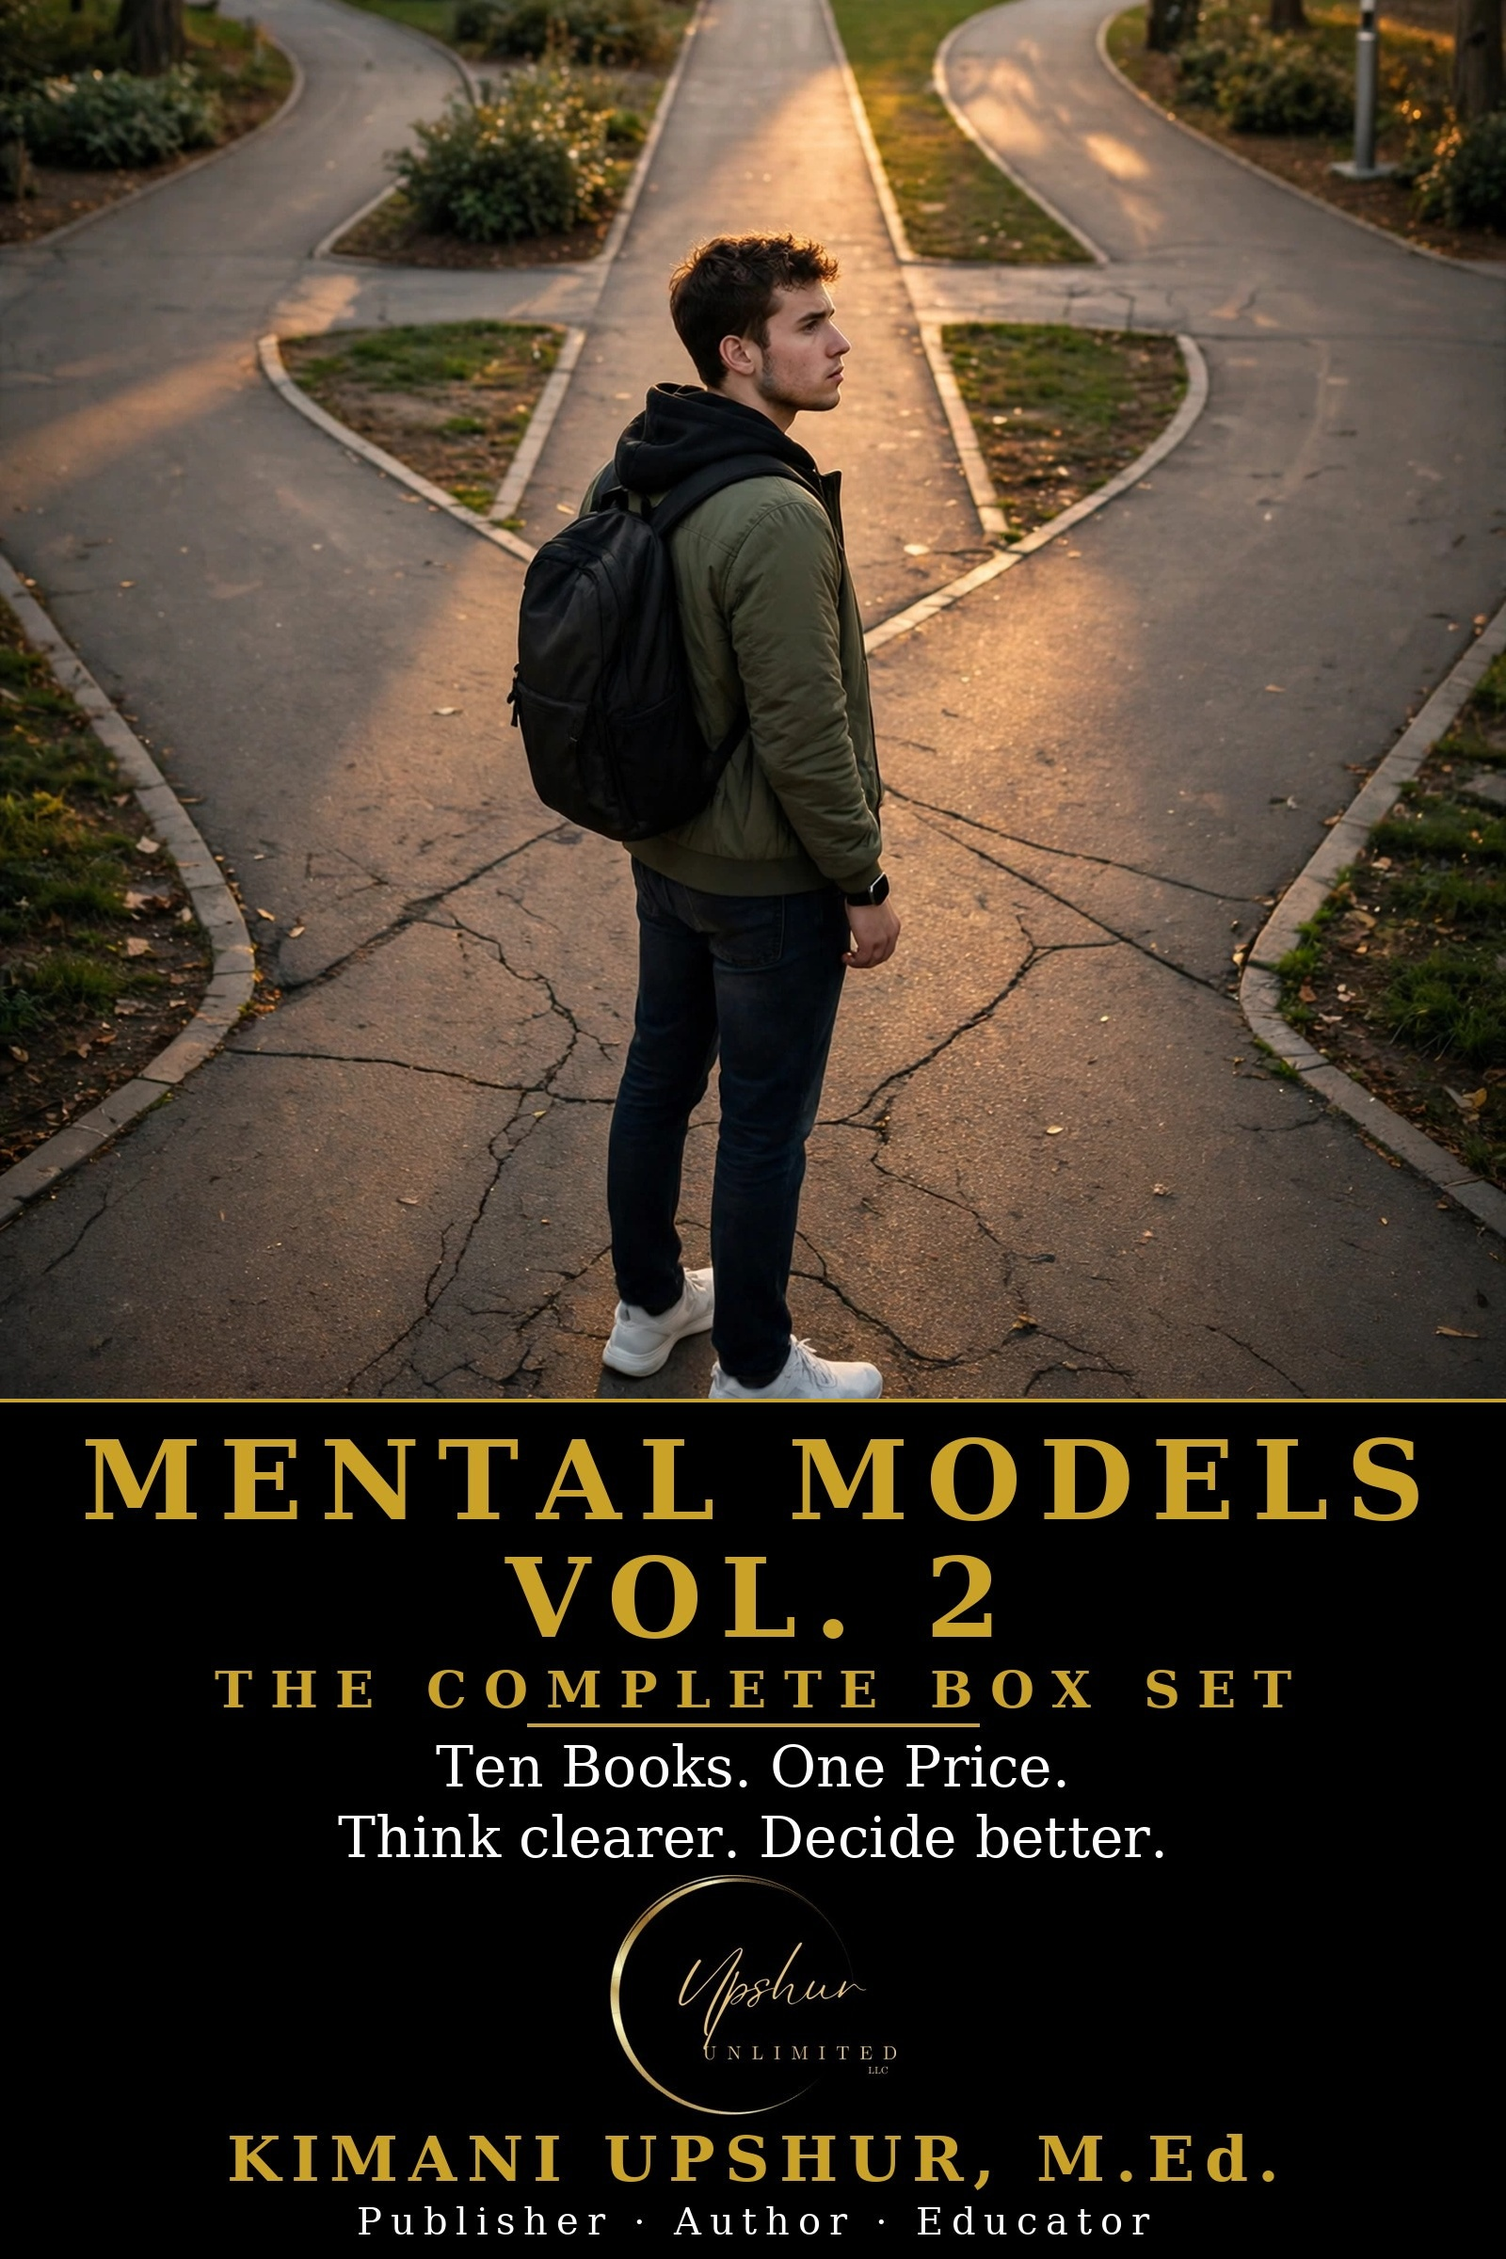
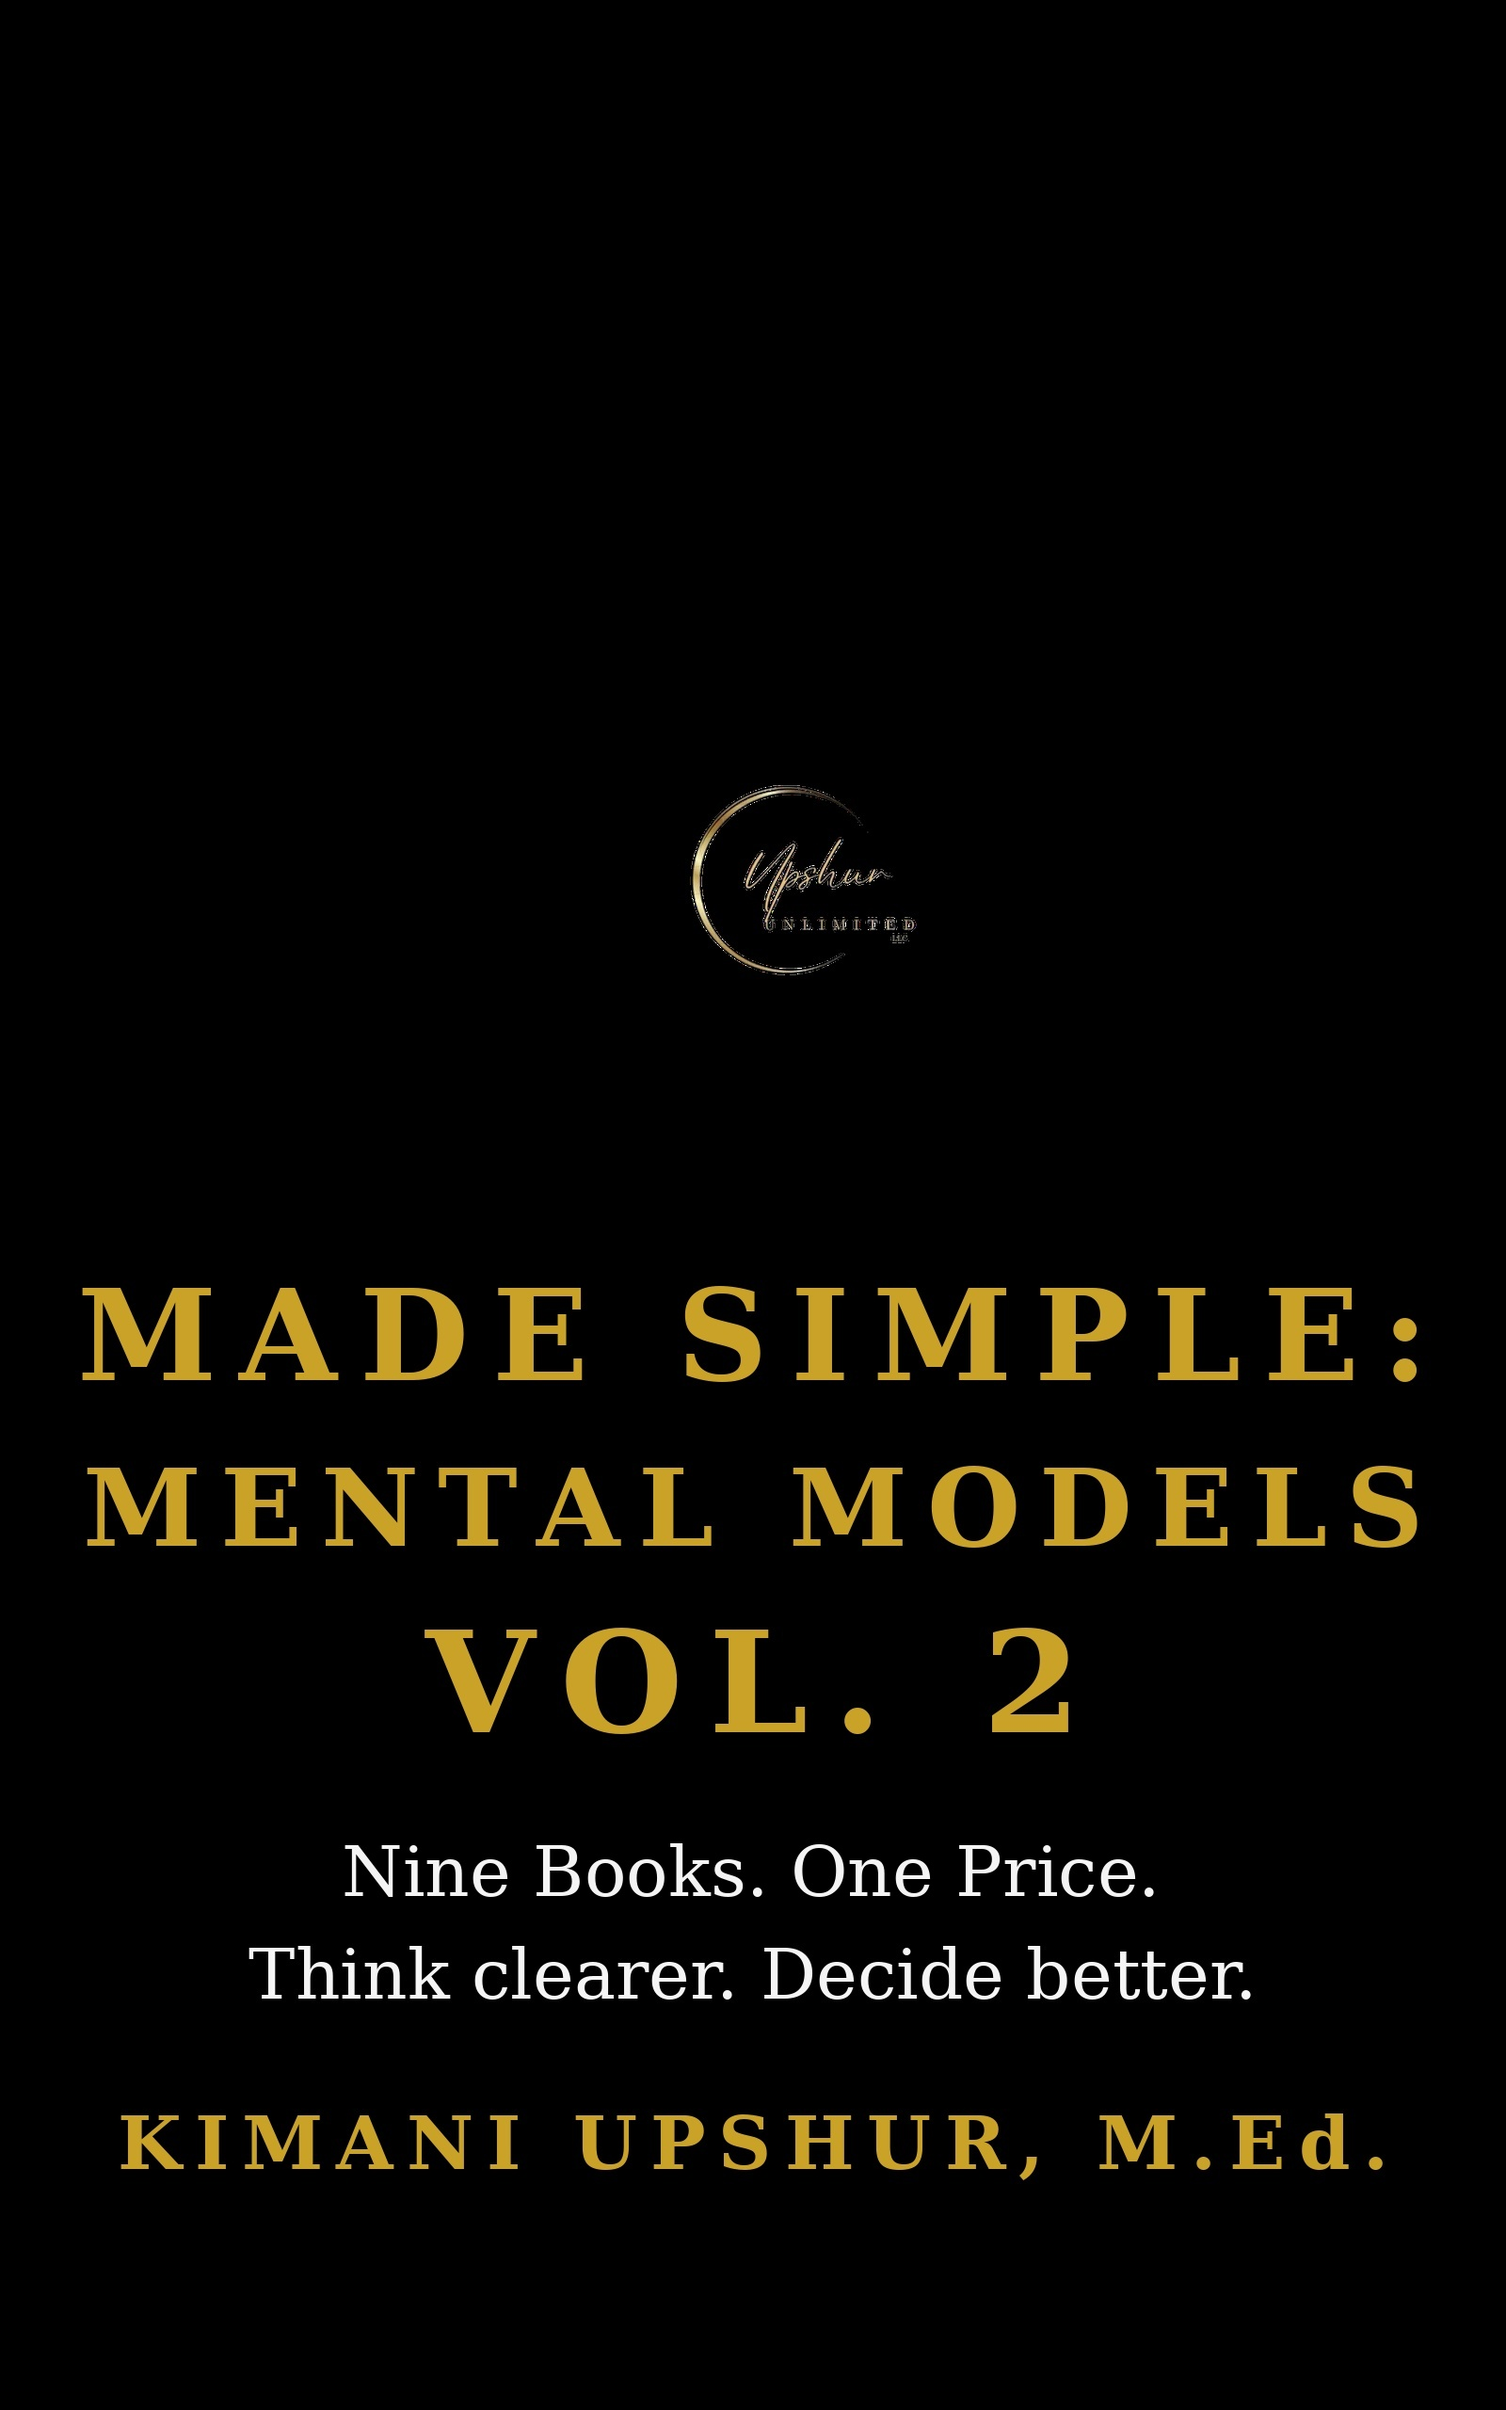
Batch 228: Mental Models Vol. 2 nine-book description + cover correction

diff --git a/books/mental-models-vol-2-the-complete-box-set/index.html b/books/mental-models-vol-2-the-complete-box-set/index.html
@@ -5,21 +5,21 @@
 <meta name="viewport" content="width=device-width, initial-scale=1">
 <link rel="icon" href="/favicon.png" type="image/png">
 <title>Made Simple: Mental Models Vol. 2 — The Complete Box Set by Kimani Upshur, M.Ed.</title>
-<meta name="description" content="Made Simple: Mental Models Vol. 2 — The Complete Box Set gathers ten complete Made Simple books of practical thinking tools in one volume.">
+<meta name="description" content="Made Simple: Mental Models Vol. 2 — The Complete Box Set gathers nine complete Made Simple books of practical thinking tools in one volume.">
 <link rel="canonical" href="https://upshurunlimitedllc.com/books/mental-models-vol-2-the-complete-box-set/">
 <meta property="og:type" content="book">
 <meta property="og:title" content="Made Simple: Mental Models Vol. 2 — The Complete Box Set by Kimani Upshur, M.Ed. | Upshur Unlimited, LLC">
 <meta property="og:image" content="https://upshurunlimitedllc.com/books/mental-models-vol-2-the-complete-box-set/cover.jpg">
-<meta property="og:description" content="Made Simple: Mental Models Vol. 2 — The Complete Box Set gathers ten complete Made Simple books of practical thinking tools in one volume.">
+<meta property="og:description" content="Made Simple: Mental Models Vol. 2 — The Complete Box Set gathers nine complete Made Simple books of practical thinking tools in one volume.">
 <meta property="og:url" content="https://upshurunlimitedllc.com/books/mental-models-vol-2-the-complete-box-set/">
 <meta property="og:site_name" content="Kimani Upshur, M.Ed. | Upshur Unlimited, LLC">
 <meta name="twitter:card" content="summary">
 <meta name="twitter:title" content="Made Simple: Mental Models Vol. 2 — The Complete Box Set by Kimani Upshur, M.Ed. | Upshur Unlimited, LLC">
-<meta name="twitter:description" content="Made Simple: Mental Models Vol. 2 — The Complete Box Set gathers ten complete Made Simple books of practical thinking tools in one volume.">
+<meta name="twitter:description" content="Made Simple: Mental Models Vol. 2 — The Complete Box Set gathers nine complete Made Simple books of practical thinking tools in one volume.">
 <link rel="stylesheet" href="/assets/design.css">
 <link rel="stylesheet" href="/assets/storefront.css">
 <script type="application/ld+json">
-{"@context": "https://schema.org", "@type": "Book", "name": "Made Simple: Mental Models Vol. 2 \u2014 The Complete Box Set", "author": {"@type": "Person", "name": "Kimani Upshur, M.Ed.", "url": "https://upshurunlimitedllc.com/about.html"}, "publisher": {"@type": "Organization", "name": "Upshur Unlimited, LLC"}, "inLanguage": "en", "bookFormat": "https://schema.org/EBook", "description": "Made Simple: Mental Models Vol. 2 \u2014 The Complete Box Set gathers ten complete Made Simple books of practical thinking tools in one volume. Two-Way Door Decisions teaches how to tell reversible from irreversible choices and decide at the right speed. Red Teaming shows how to challenge your own plans, find blind spots, and stress-test decisions before reality does. Decision Matrix explains how to weigh options, score tradeoffs, and make clear choices when everything looks equal, and the OODA Loop how to observe, orient, decide, and act faster than changing conditions. Pre-Mortem imagines failure before it happens to spot hidden risks and make better plans. Constraints examines how limits shape systems, decisions, and outcomes, and Emergence how complex patterns arise from simple interactions. Feedback Loops follows how systems think, self-regulate, and surprise us, and Bottlenecks exposes the hidden constraints that limit performance in systems, organizations, and decisions. Systems Thinking closes the set with seeing connections rather than isolated parts. Each book follows the Made Simple pattern \u2014 a hook, an introduction, a framework, chapters that apply the model to business, personal, and career decisions, and a conclusion \u2014 stripping the jargon, finding the mechanism, and giving the reader something to act on this week. Written from a Christian worldview \u2014 Scripture first.", "url": "https://upshurunlimitedllc.com/books/mental-models-vol-2-the-complete-box-set/"}
+{"@context": "https://schema.org", "@type": "Book", "name": "Made Simple: Mental Models Vol. 2 \u2014 The Complete Box Set", "author": {"@type": "Person", "name": "Kimani Upshur, M.Ed.", "url": "https://upshurunlimitedllc.com/about.html"}, "publisher": {"@type": "Organization", "name": "Upshur Unlimited, LLC"}, "inLanguage": "en", "bookFormat": "https://schema.org/EBook", "description": "Made Simple: Mental Models Vol. 2 \u2014 The Complete Box Set gathers nine complete Made Simple books of practical thinking tools in one volume. Two-Way Door Decisions teaches how to tell reversible from irreversible choices and decide at the right speed. Red Teaming shows how to challenge your own plans, find blind spots, and stress-test decisions before reality does. Decision Matrix explains how to weigh options, score tradeoffs, and make clear choices when everything looks equal, and the OODA Loop how to observe, orient, decide, and act faster than changing conditions. Pre-Mortem imagines failure before it happens to spot hidden risks and make better plans. Constraints examines how limits shape systems, decisions, and outcomes, and Emergence how complex patterns arise from simple interactions. Bottlenecks exposes the hidden constraints that limit performance in systems, organizations, and decisions. Systems Thinking closes the set with seeing connections rather than isolated parts. Each book follows the Made Simple pattern \u2014 a hook, an introduction, a framework, chapters that apply the model to business, personal, and career decisions, and a conclusion \u2014 stripping the jargon, finding the mechanism, and giving the reader something to act on this week. Written from a Christian worldview \u2014 Scripture first.", "url": "https://upshurunlimitedllc.com/books/mental-models-vol-2-the-complete-box-set/"}
 </script>
 <script type="application/ld+json">
 {"@context": "https://schema.org", "@type": "BreadcrumbList", "itemListElement": [{"@type": "ListItem", "position": 1, "name": "Home", "item": "https://upshurunlimitedllc.com/"}, {"@type": "ListItem", "position": 2, "name": "Books", "item": "https://upshurunlimitedllc.com/books/"}, {"@type": "ListItem", "position": 3, "name": "Made Simple: Mental Models Vol. 2 — The Complete Box Set", "item": "https://upshurunlimitedllc.com/books/mental-models-vol-2-the-complete-box-set/"}]}
@@ -41,7 +41,7 @@
 <p class="bread"><a href="/">Home</a> / <a href="/books/">Books</a></p>
 <div class="uu-book-layout"><div class="uu-book-cover"><figure class="cover" style="margin:6px 0 18px"><img src="cover.jpg" onerror="this.style.display='none'" alt="Made Simple: Mental Models Vol. 2 — The Complete Box Set book cover by Kimani Upshur, M.Ed." width="1600" height="2400" loading="lazy" style="max-width:280px;width:100%;height:auto;border-radius:10px;border:2px solid #D4AF63"></figure></div><div class="uu-book-meta"><h1>Made Simple: Mental Models Vol. 2 — The Complete Box Set</h1>
 <p class="byline">by Kimani Upshur, M.Ed.</p>
-<p class="desc">Made Simple: Mental Models Vol. 2 — The Complete Box Set gathers ten complete Made Simple books of practical thinking tools in one volume. Two-Way Door Decisions teaches how to tell reversible from irreversible choices and decide at the right speed. Red Teaming shows how to challenge your own plans, find blind spots, and stress-test decisions before reality does. Decision Matrix explains how to weigh options, score tradeoffs, and make clear choices when everything looks equal, and the OODA Loop how to observe, orient, decide, and act faster than changing conditions. Pre-Mortem imagines failure before it happens to spot hidden risks and make better plans. Constraints examines how limits shape systems, decisions, and outcomes, and Emergence how complex patterns arise from simple interactions. Feedback Loops follows how systems think, self-regulate, and surprise us, and Bottlenecks exposes the hidden constraints that limit performance in systems, organizations, and decisions. Systems Thinking closes the set with seeing connections rather than isolated parts. Each book follows the Made Simple pattern — a hook, an introduction, a framework, chapters that apply the model to business, personal, and career decisions, and a conclusion — stripping the jargon, finding the mechanism, and giving the reader something to act on this week. Written from a Christian worldview — Scripture first.</p>
+<p class="desc">Made Simple: Mental Models Vol. 2 — The Complete Box Set gathers nine complete Made Simple books of practical thinking tools in one volume. Two-Way Door Decisions teaches how to tell reversible from irreversible choices and decide at the right speed. Red Teaming shows how to challenge your own plans, find blind spots, and stress-test decisions before reality does. Decision Matrix explains how to weigh options, score tradeoffs, and make clear choices when everything looks equal, and the OODA Loop how to observe, orient, decide, and act faster than changing conditions. Pre-Mortem imagines failure before it happens to spot hidden risks and make better plans. Constraints examines how limits shape systems, decisions, and outcomes, and Emergence how complex patterns arise from simple interactions. Bottlenecks exposes the hidden constraints that limit performance in systems, organizations, and decisions. Systems Thinking closes the set with seeing connections rather than isolated parts. Each book follows the Made Simple pattern — a hook, an introduction, a framework, chapters that apply the model to business, personal, and career decisions, and a conclusion — stripping the jargon, finding the mechanism, and giving the reader something to act on this week. Written from a Christian worldview — Scripture first.</p>
 <div class="uu-buybox"><h2>Get This Book</h2><p class="uu-note">The complete box set — also check your favorite retailer.</p><p class="uu-note">Ebook $39.99</p><div class="uu-buybtns"><a class="uu-buybtn primary" href="https://payhip.com/b/UWr40" rel="nofollow noopener">Buy on Payhip</a><a class="uu-buybtn" href="https://books.apple.com/us/book/made-simple-mental-models-vol-2-the-complete-box-set/id6821236545" rel="nofollow noopener">Buy on Apple Books</a></div></div>
 <div class="details"><dl>
 <dt>Publisher</dt><dd>Upshur Unlimited, LLC</dd>
